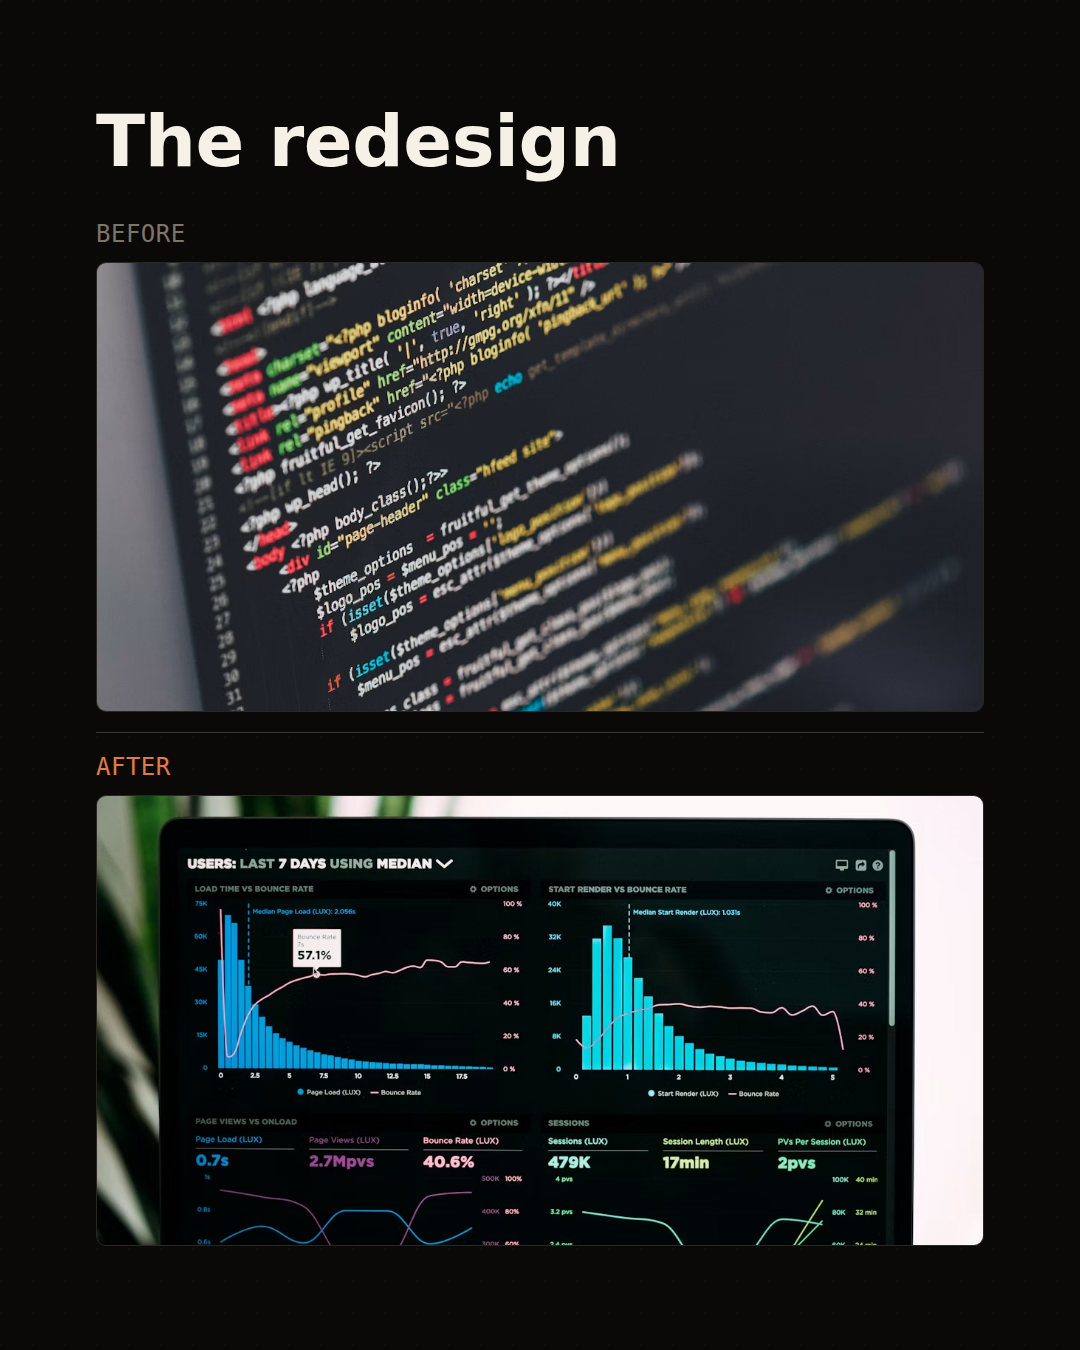
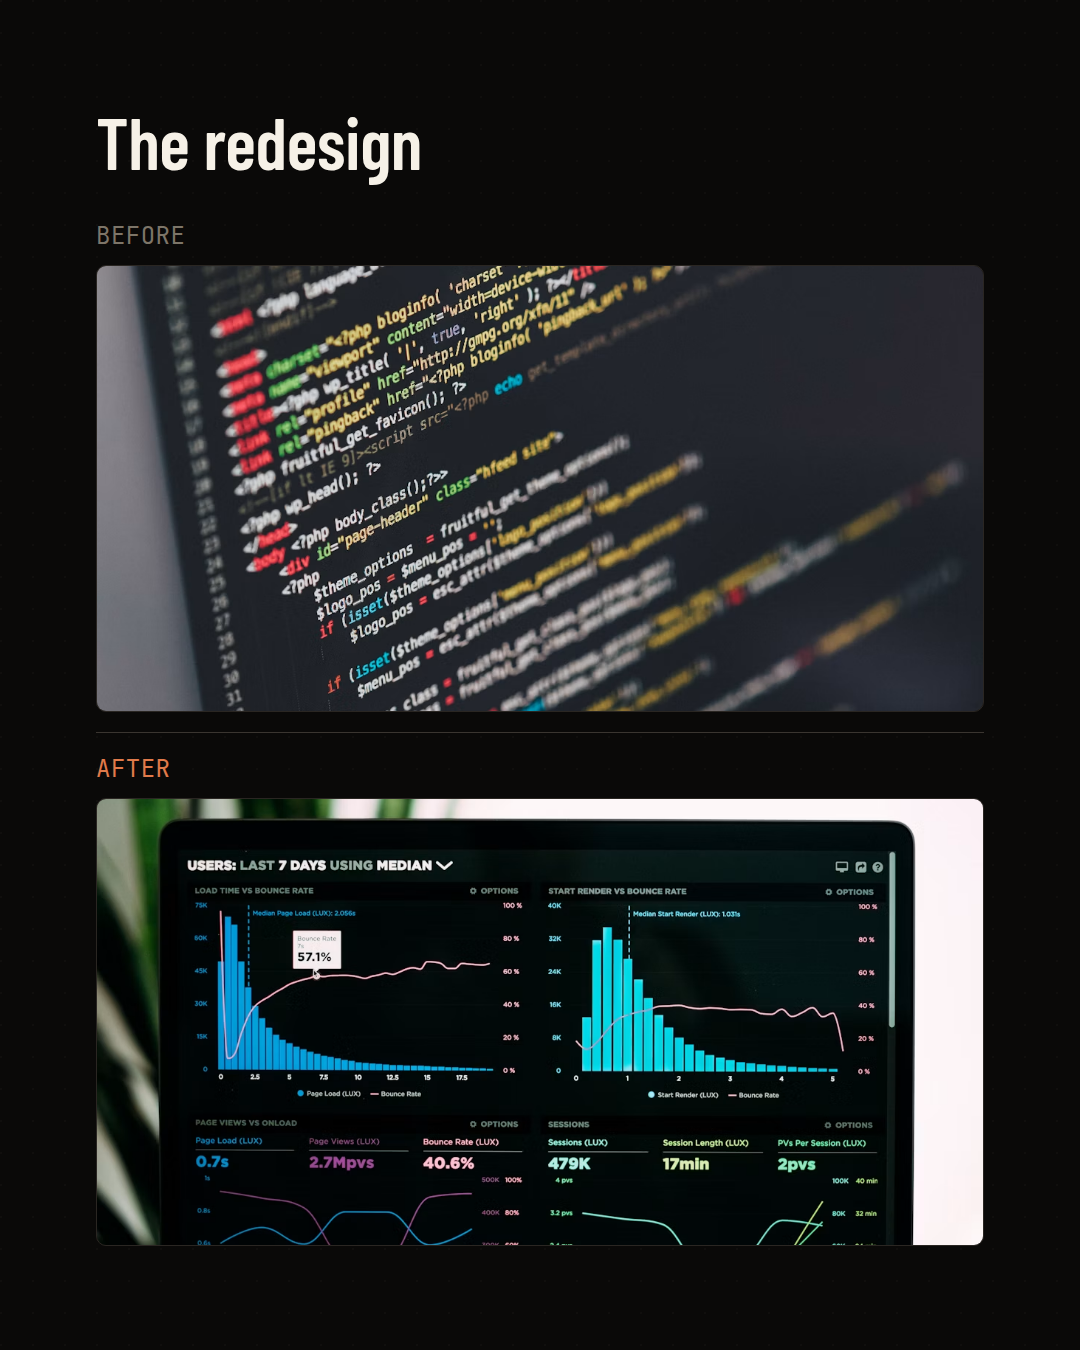
fix(templates): image-quote taller photo row biased to the top so the head is not cut

diff --git a/templates/image-quote/social-portrait.css b/templates/image-quote/social-portrait.css
@@ -1,8 +1,8 @@
 /*
  * tpl-image-quote · social-portrait — 1080×1350 (4:5, Instagram portrait post)
  *
- * Photo on top (600px, ~44% of the frame), quote below in an 888×606px text box
- * (96px sides, 72px top/bottom). The quote is 76px display type — about four
+ * Photo on top (720px, ~53% of the frame), quote below in an 888×486px text box
+ * (96px sides, 72px top/bottom). The quote is 84px display type — about four
  * lines of a doubled-length quote — and the body clips nothing: the photo row
  * is fixed, the text row takes the rest.
  */
@@ -17,7 +17,7 @@
   overflow: hidden;
   isolation: isolate;
   display: grid;
-  grid-template-rows: 600px 1fr;
+  grid-template-rows: 720px 1fr;
 }
 
 .tpl-root.tpl-image-quote.tpl-image-quote--social .tpl-image-quote__media {
@@ -31,6 +31,8 @@
   width: 100%;
   height: 100%;
   object-fit: cover;
+  /* Bias the crop toward the top so a portrait keeps the whole head. */
+  object-position: 50% 12%;
   display: block;
 }
 
@@ -45,7 +47,7 @@
 
 .tpl-root.tpl-image-quote.tpl-image-quote--social .tpl-image-quote__quote {
   font-family: var(--s-font-display, 'Barlow Condensed', sans-serif);
-  font-size: 76px;
+  font-size: 84px;
   font-weight: var(--p-weight-600, 600);
   line-height: 1.08;
   letter-spacing: var(--p-tracking-tight, -0.4px);
